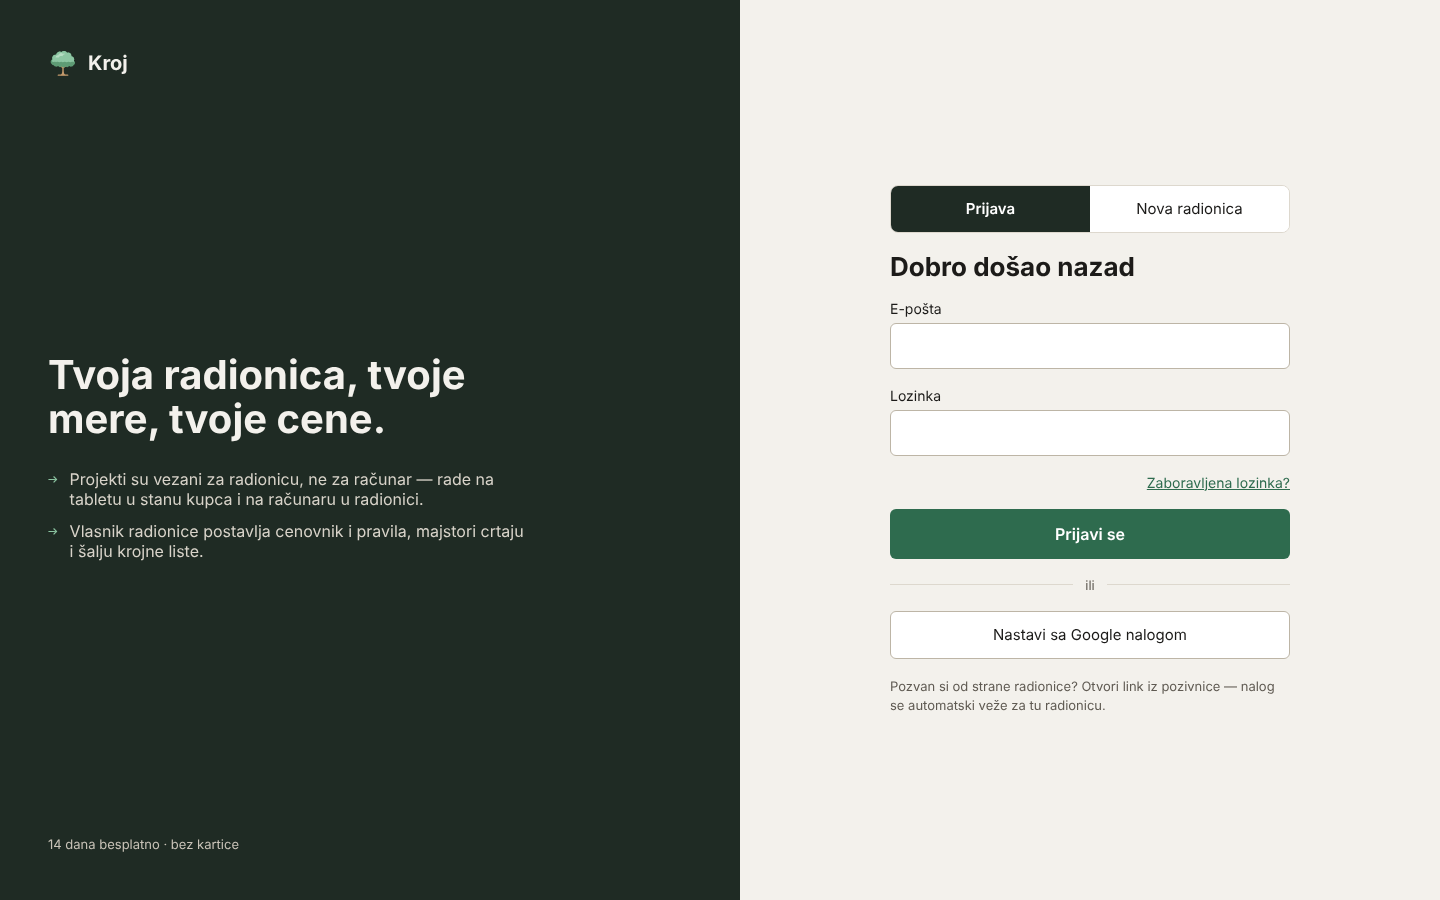
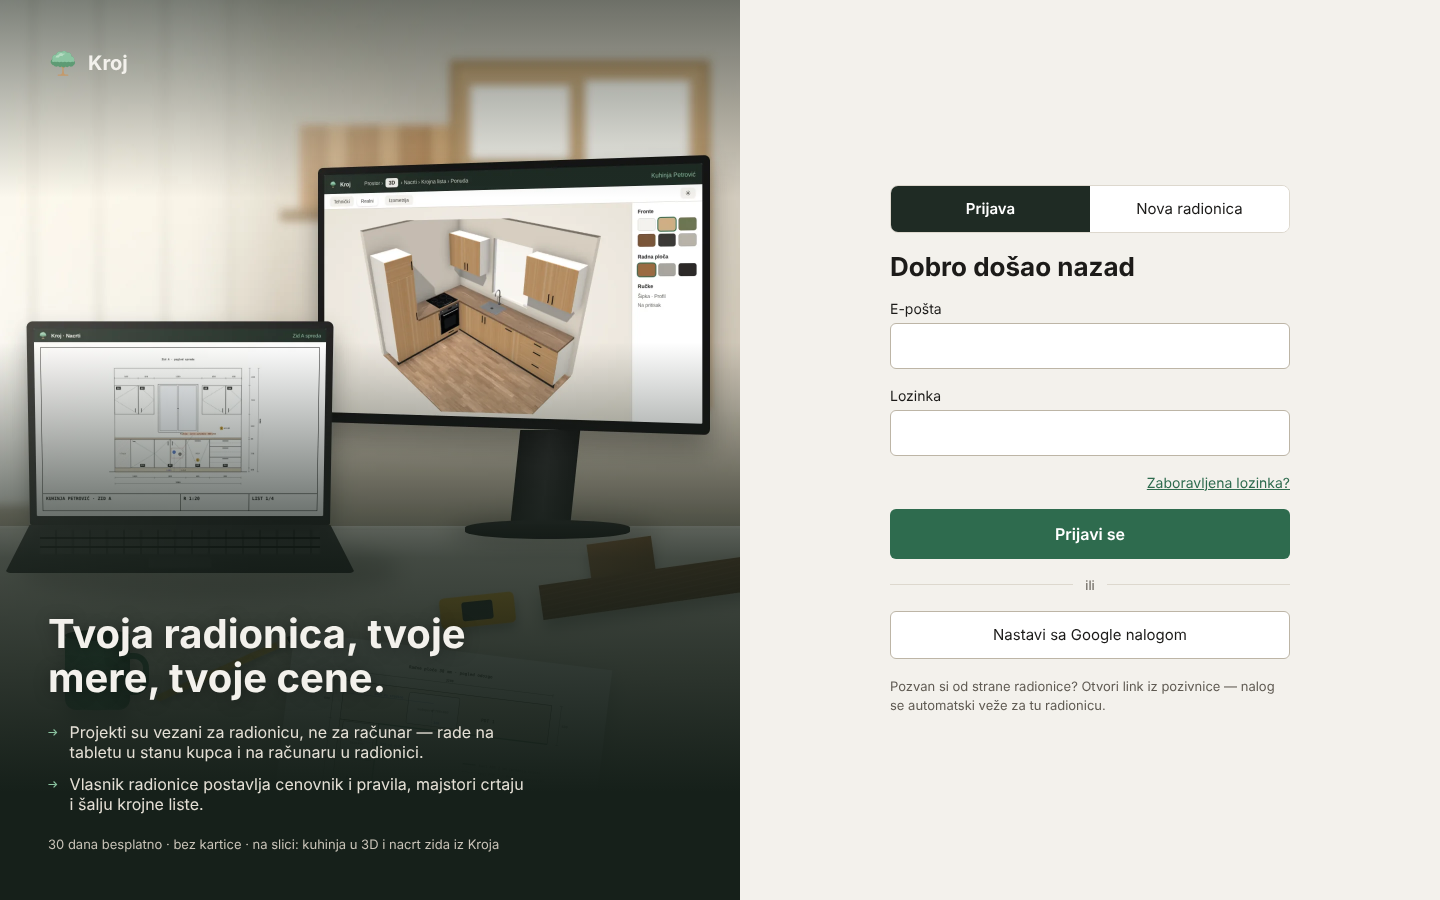
Design: login / sign-up picture — original desk scene with Kroj 3D on the monitor and a wall drawing on the laptop; Prijava left panel uses it
Claude-Session: https://claude.ai/code/session_014Ntj7D9UHc2rmP57rGzQrg

diff --git a/design/assets/site/login-scene.html b/design/assets/site/login-scene.html
@@ -1,0 +1,81 @@
+<!doctype html><html><head><meta charset="utf-8"><style>
+@import url('https://fonts.googleapis.com/css2?family=IBM+Plex+Sans:wght@400;500;600;700&display=swap');
+*{box-sizing:border-box} body{margin:0;width:1480px;height:1800px;overflow:hidden;font-family:'IBM Plex Sans',sans-serif;background:#2a2a26}
+.scene{position:absolute;inset:0;overflow:hidden;background:linear-gradient(180deg,#d9d3c7 0%,#cfc6b6 45%,#b9ab95 62%)}
+/* back wall: window light + shelves + pinned drawings, blurred like depth of field */
+.wall{position:absolute;inset:0 0 38% 0;filter:blur(9px)}
+.win{position:absolute;left:-60px;top:-40px;width:620px;height:1050px;background:linear-gradient(90deg,#fbfaf6,#f1eee6 70%,rgba(241,238,230,0));}
+.win:after{content:'';position:absolute;inset:0;background:repeating-linear-gradient(90deg,rgba(255,255,255,0) 0 120px,rgba(200,194,182,.55) 120px 132px)}
+.board{position:absolute;right:60px;top:120px;width:520px;height:700px;background:#c9a77a;box-shadow:inset 0 0 0 14px #b08c5e}
+.pin{position:absolute;background:#f7f5ef;box-shadow:0 6px 18px rgba(0,0,0,.18)}
+.shelf{position:absolute;left:560px;top:420px;width:380px;height:22px;background:#8a6a45}
+.planks{position:absolute;left:600px;top:250px;width:300px;height:170px;background:repeating-linear-gradient(90deg,#b88a5a 0 46px,#9c7246 46px 52px,#d0a878 52px 96px,#a67a4c 96px 104px)}
+.glow{position:absolute;inset:0;background:radial-gradient(60% 50% at 18% 28%,rgba(255,250,236,.75),rgba(255,250,236,0) 70%)}
+/* desk */
+.desk{position:absolute;left:-120px;right:-120px;top:1060px;bottom:-40px;background:linear-gradient(180deg,#ece7dd 0%,#e2dacb 40%,#cfc4b0 100%);transform-origin:50% 0;}
+.deskedge{position:absolute;left:-120px;right:-120px;top:1052px;height:14px;background:linear-gradient(#f6f2ea,#d8cfbf)}
+.shadow{position:absolute;border-radius:50%;background:rgba(40,32,20,.28);filter:blur(22px)}
+/* monitor */
+.mon{position:absolute;left:520px;top:310px;width:900px;height:560px;transform:perspective(2400px) rotateY(-16deg);transform-origin:100% 50%}
+.bezel{position:absolute;inset:0;background:#141414;border-radius:12px;padding:16px 16px 22px;box-shadow:0 30px 60px rgba(0,0,0,.35)}
+.screen{position:relative;width:100%;height:100%;background:#F3F1EC;overflow:hidden;border-radius:3px}
+.hdr{height:42px;background:#1F2B24;display:flex;align-items:center;gap:10px;padding:0 14px;color:#F3F1EC;font-size:13px;font-weight:600}
+.st{display:flex;align-items:center;gap:6px;margin-left:24px;font-size:12px;font-weight:500;color:#D8D3C9}
+.st b{background:#F3F1EC;color:#1C1B19;border-radius:5px;padding:3px 8px;font-weight:600}
+.tb{height:34px;display:flex;align-items:center;gap:8px;padding:0 14px;border-bottom:1px solid #DDD8CE;background:#FFFFFF}
+.pill{height:22px;border-radius:6px;background:#F3F1EC;padding:0 10px;font-size:11px;display:flex;align-items:center;color:#3D3A35}
+.pill.on{background:#FFFFFF;box-shadow:0 1px 3px rgba(0,0,0,.15)}
+.view{position:absolute;left:0;right:150px;top:76px;bottom:0;background:radial-gradient(80% 80% at 50% 45%,#f7f4ee,#e6e0d4)}
+.view img{position:absolute;inset:6% 4% 2% 4%;width:92%;height:92%;object-fit:contain}
+.side{position:absolute;right:0;top:76px;bottom:0;width:150px;background:#FFFFFF;border-left:1px solid #DDD8CE;padding:12px;font-size:10.5px;color:#5F5A52}
+.sw{display:grid;grid-template-columns:repeat(3,1fr);gap:6px;margin:8px 0 14px}
+.sw i{height:26px;border-radius:5px;display:block;box-shadow:inset 0 0 0 1px rgba(0,0,0,.12)}
+.stand{position:absolute;left:1030px;top:860px;width:120px;height:200px;background:linear-gradient(90deg,#1b1b1b,#2e2e2e 50%,#1b1b1b);transform:skewX(-6deg)}
+.foot{position:absolute;left:930px;top:1040px;width:330px;height:38px;border-radius:50%/40%;background:linear-gradient(#2a2a2a,#151515)}
+/* laptop */
+.lap{position:absolute;left:60px;top:650px;width:600px;height:400px;transform:perspective(1800px) rotateX(-6deg);transform-origin:50% 100%}
+.lid{position:absolute;inset:0;background:#202020;border-radius:12px 12px 4px 4px;padding:14px 14px 18px;box-shadow:0 26px 50px rgba(0,0,0,.35)}
+.lscr{width:100%;height:100%;background:#FFFFFF;overflow:hidden;position:relative;border-radius:2px}
+.lhdr{height:26px;background:#1F2B24;display:flex;align-items:center;gap:8px;padding:0 10px;color:#F3F1EC;font-size:10px;font-weight:600}
+.lscr .sheet{position:absolute;left:12px;right:12px;top:36px;bottom:10px;border:1.5px solid #1C1B19;display:flex;flex-direction:column}
+.lscr .sheet img{flex:1;min-height:0;width:100%;object-fit:contain;padding:8px}
+.tblock{height:34px;border-top:1.5px solid #1C1B19;display:grid;grid-template-columns:2fr 1fr 1fr;font:600 9px 'IBM Plex Mono',monospace}
+.tblock div{border-left:1px solid #1C1B19;padding:4px 6px} .tblock div:first-child{border-left:0}
+.base{position:absolute;left:10px;top:1050px;width:700px;height:96px;background:linear-gradient(180deg,#3a3a3a,#1c1c1c);clip-path:polygon(7% 0,93% 0,100% 100%,0 100%);border-radius:0 0 10px 10px}
+.base:after{content:'';position:absolute;left:41%;bottom:10px;width:18%;height:22px;border-radius:4px;background:#2a2a2a}
+.keys{position:absolute;inset:10px 70px 38px 70px;background:repeating-linear-gradient(90deg,#3a3a3a 0 30px,#232323 30px 34px),repeating-linear-gradient(180deg,rgba(0,0,0,0) 0 14px,#1a1a1a 14px 18px);background-blend-mode:multiply;opacity:.9}
+/* props */
+.wood1{position:absolute;left:1080px;top:1140px;width:440px;height:70px;background:linear-gradient(180deg,#7b4f2e,#5e3a20);transform:rotate(-8deg);box-shadow:0 18px 30px rgba(0,0,0,.3)}
+.wood1:before{content:'';position:absolute;inset:0;background:repeating-linear-gradient(176deg,rgba(255,255,255,0) 0 9px,rgba(255,255,255,.06) 9px 11px)}
+.wood2{position:absolute;left:1180px;top:1080px;width:130px;height:110px;background:linear-gradient(135deg,#9a6a3e,#6f4826);transform:rotate(-8deg);box-shadow:0 14px 24px rgba(0,0,0,.3)}
+.meter{position:absolute;left:880px;top:1190px;width:150px;height:62px;border-radius:10px;background:linear-gradient(#f2b630,#d9981a);transform:rotate(-6deg);box-shadow:0 12px 22px rgba(0,0,0,.3)}
+.meter:after{content:'';position:absolute;left:44px;top:12px;width:62px;height:38px;border-radius:5px;background:#1f2321}
+.paper{position:absolute;left:560px;top:1300px;width:640px;height:440px;background:#fbfaf6;transform:rotate(7deg);box-shadow:0 18px 40px rgba(0,0,0,.22);padding:26px;overflow:hidden}
+.paper img{width:100%;opacity:.9}
+.pencil{position:absolute;left:300px;top:1330px;width:300px;height:14px;border-radius:7px;background:linear-gradient(90deg,#f2c14e 0 88%,#e8c9a0 88% 96%,#333 96%);transform:rotate(-24deg);box-shadow:0 8px 12px rgba(0,0,0,.25)}
+.mug{position:absolute;left:130px;top:1270px;width:130px;height:150px;border-radius:10px 10px 22px 22px;background:linear-gradient(90deg,#2E6B4E,#3d8562 55%,#25573f);box-shadow:0 22px 30px rgba(0,0,0,.3)}
+.mug:before{content:'';position:absolute;left:0;right:0;top:-10px;height:22px;border-radius:50%;background:#1D4632}
+.mug:after{content:'';position:absolute;right:-38px;top:36px;width:50px;height:60px;border:12px solid #2E6B4E;border-left:0;border-radius:0 30px 30px 0}
+.light{position:absolute;inset:0;pointer-events:none;background:linear-gradient(115deg,rgba(255,248,230,.28),rgba(255,248,230,0) 45%),radial-gradient(120% 90% at 50% 120%,rgba(0,0,0,.25),rgba(0,0,0,0) 60%)}
+</style></head><body><div class="scene">
+<div class="wall"><div class="win"></div><div class="board"><div class="pin" style="left:40px;top:50px;width:200px;height:150px"></div><div class="pin" style="left:270px;top:40px;width:210px;height:280px"></div><div class="pin" style="left:60px;top:240px;width:170px;height:230px"></div></div><div class="planks"></div><div class="shelf"></div><div class="glow"></div></div>
+<div class="deskedge"></div><div class="desk"></div>
+<div class="shadow" style="left:900px;top:1030px;width:420px;height:70px"></div>
+<div class="shadow" style="left:40px;top:1080px;width:760px;height:120px"></div>
+<div class="stand"></div><div class="foot"></div>
+<div class="mon"><div class="bezel"><div class="screen">
+  <div class="hdr"><svg width="16" height="16" viewBox="0 0 28 28" aria-hidden="true"><path d="M11.2 25.4c1.3-.5 2-1.8 2.1-3.8l.1-4.3h1.2l.1 4.3c.1 2 .8 3.3 2.1 3.8z" fill="#C49A6C"></path><path d="M13.9 18.4 10.6 16M14 18v-2.4M14.4 18.3l3.4-2.5" fill="none" stroke="#C49A6C" stroke-width="1.1" stroke-linecap="round"></path><path d="M9.6 25.4h8.8" stroke="#C49A6C" stroke-width="1.2" stroke-linecap="round"></path><path d="M3.6 15.2a2.6 2.6 0 0 1 .6-4.6a3 3 0 0 1 3.4-4.2a3.4 3.4 0 0 1 5-2.6a3.4 3.4 0 0 1 5.2.6a3 3 0 0 1 4 3.4a2.8 2.8 0 0 1 2.4 4a2.4 2.4 0 0 1-.4 4.2a2.6 2.6 0 0 1-4 .8a2.4 2.4 0 0 1-3.4.4a2.4 2.4 0 0 1-3.6 0a2.4 2.4 0 0 1-3.4-.4a2.6 2.6 0 0 1-4-.8a1.8 1.8 0 0 1-1.8-.8z" fill="#5E9B74"></path><path d="M3.9 12.9a2.6 2.6 0 0 1 .3-2.3a3 3 0 0 1 3.4-4.2a3.4 3.4 0 0 1 5-2.6a3.4 3.4 0 0 1 5.2.6a3 3 0 0 1 4 3.4a2.8 2.8 0 0 1 2.4 4a2.2 2.2 0 0 1-.3 1.4c-1-.7-2.3-.6-3.1.2c-.9-.8-2.4-.8-3.3 0c-1-.9-2.6-.9-3.6 0c-.9-.8-2.4-.8-3.3 0c-.8-.8-2.1-.9-3.1-.2c-.8-.4-1.4-.4-1.9-.2z" fill="#8CC5A2"></path><path d="M7.2 9.2a2.2 2.2 0 0 1 2.4-2.4a2.6 2.6 0 0 1 4.2-1.4a2.4 2.4 0 0 1 2.6.2c-1.6.2-2.6 1-3 2.2c-1.4-.6-3 0-3.6 1.4c-1-.4-2-.4-2.6 0z" fill="#B5DCC2"></path></svg><span>Kroj</span><span class="st">Prostor ›<b>3D</b>› Nacrti › Krojna lista › Ponuda</span><span style="margin-left:auto;font-weight:500;color:#8CC5A2">Kuhinja Petrović</span></div>
+  <div class="tb"><span class="pill">Tehnički</span><span class="pill on">Realni</span><span class="pill" style="margin-left:10px">Izometrija</span><span style="margin-left:auto" class="pill">☀</span></div>
+  <div class="view"><img src="../web/3d-hero.webp"></div>
+  <div class="side"><b style="color:#1C1B19;font-size:11px">Fronte</b><div class="sw"><i style="background:#F4F2EE"></i><i style="background:#CFAE84;box-shadow:0 0 0 2px #2E6B4E"></i><i style="background:#6E7552"></i><i style="background:#7A5638"></i><i style="background:#3A3936"></i><i style="background:#B8B3AA"></i></div><b style="color:#1C1B19;font-size:11px">Radna ploča</b><div class="sw"><i style="background:#9A6B43;box-shadow:0 0 0 2px #2E6B4E"></i><i style="background:#A9A59E"></i><i style="background:#2B2A28"></i></div><b style="color:#1C1B19;font-size:11px">Ručke</b><div style="margin-top:6px;line-height:1.7">Šipka · Profil<br>Na pritisak</div></div>
+</div></div></div>
+<div class="base"><div class="keys"></div></div>
+<div class="lap"><div class="lid"><div class="lscr">
+  <div class="lhdr"><svg width="16" height="16" viewBox="0 0 28 28" aria-hidden="true"><path d="M11.2 25.4c1.3-.5 2-1.8 2.1-3.8l.1-4.3h1.2l.1 4.3c.1 2 .8 3.3 2.1 3.8z" fill="#C49A6C"></path><path d="M13.9 18.4 10.6 16M14 18v-2.4M14.4 18.3l3.4-2.5" fill="none" stroke="#C49A6C" stroke-width="1.1" stroke-linecap="round"></path><path d="M9.6 25.4h8.8" stroke="#C49A6C" stroke-width="1.2" stroke-linecap="round"></path><path d="M3.6 15.2a2.6 2.6 0 0 1 .6-4.6a3 3 0 0 1 3.4-4.2a3.4 3.4 0 0 1 5-2.6a3.4 3.4 0 0 1 5.2.6a3 3 0 0 1 4 3.4a2.8 2.8 0 0 1 2.4 4a2.4 2.4 0 0 1-.4 4.2a2.6 2.6 0 0 1-4 .8a2.4 2.4 0 0 1-3.4.4a2.4 2.4 0 0 1-3.6 0a2.4 2.4 0 0 1-3.4-.4a2.6 2.6 0 0 1-4-.8a1.8 1.8 0 0 1-1.8-.8z" fill="#5E9B74"></path><path d="M3.9 12.9a2.6 2.6 0 0 1 .3-2.3a3 3 0 0 1 3.4-4.2a3.4 3.4 0 0 1 5-2.6a3.4 3.4 0 0 1 5.2.6a3 3 0 0 1 4 3.4a2.8 2.8 0 0 1 2.4 4a2.2 2.2 0 0 1-.3 1.4c-1-.7-2.3-.6-3.1.2c-.9-.8-2.4-.8-3.3 0c-1-.9-2.6-.9-3.6 0c-.9-.8-2.4-.8-3.3 0c-.8-.8-2.1-.9-3.1-.2c-.8-.4-1.4-.4-1.9-.2z" fill="#8CC5A2"></path><path d="M7.2 9.2a2.2 2.2 0 0 1 2.4-2.4a2.6 2.6 0 0 1 4.2-1.4a2.4 2.4 0 0 1 2.6.2c-1.6.2-2.6 1-3 2.2c-1.4-.6-3 0-3.6 1.4c-1-.4-2-.4-2.6 0z" fill="#B5DCC2"></path></svg><span>Kroj · Nacrti</span><span style="margin-left:auto;font-weight:500;color:#8CC5A2">Zid A spreda</span></div>
+  <div class="sheet"><img src="../nacrt-zid-A.svg"><div class="tblock"><div>KUHINJA PETROVIĆ · ZID A</div><div>R 1:20</div><div>LIST 1/4</div></div></div>
+</div></div></div>
+<div class="wood2"></div><div class="wood1"></div><div class="meter"></div>
+<div class="paper"><img src="../nacrt-radne-ploce.svg"></div>
+<div class="pencil"></div><div class="mug"></div>
+<div class="light"></div>
+</div></body></html>

diff --git a/design/Prijava.dc.html b/design/Prijava.dc.html
@@ -16,17 +16,19 @@ a{color:#2E6B4E}a:hover{color:#1D4632}
 </style>
 </helmet>
 <div style="font-family: 'IBM Plex Sans', system-ui, sans-serif; color: #1C1B19; background: #F3F1EC; min-height: 900px; display: flex; flex-wrap: wrap">
-  <section style="flex: 1 1 520px; min-width: 0; background: #1F2B24; color: #F3F1EC; padding: 48px; box-sizing: border-box; display: flex; flex-direction: column; gap: 28px">
-    <a href="Sajt.dc.html" style="display: flex; align-items: center; gap: 10px; color: #F3F1EC; text-decoration: none">
+  <section style="flex: 1 1 520px; min-width: 0; position: relative; overflow: hidden; background: #1F2B24; color: #F3F1EC; padding: 48px; box-sizing: border-box; display: flex; flex-direction: column; gap: 22px">
+    <img src="assets/site/web/login-radionica.webp" alt="" style="position: absolute; inset: 0; width: 100%; height: 100%; object-fit: cover; object-position: 50% 30%">
+    <span aria-hidden="true" style="position: absolute; inset: 0; background: linear-gradient(180deg, rgba(20,30,24,0.55) 0%, rgba(20,30,24,0) 22%, rgba(20,30,24,0) 38%, rgba(20,30,24,0.78) 62%, #16201A 88%)"></span>
+    <a href="Pocetna.dc.html" style="position: relative; display: flex; align-items: center; gap: 10px; color: #F3F1EC; text-decoration: none">
       <svg width="30" height="30" viewBox="0 0 28 28" aria-hidden="true"><path d="M11.2 25.4c1.3-.5 2-1.8 2.1-3.8l.1-4.3h1.2l.1 4.3c.1 2 .8 3.3 2.1 3.8z" fill="#C49A6C"></path><path d="M13.9 18.4 10.6 16M14 18v-2.4M14.4 18.3l3.4-2.5" fill="none" stroke="#C49A6C" stroke-width="1.1" stroke-linecap="round"></path><path d="M9.6 25.4h8.8" stroke="#C49A6C" stroke-width="1.2" stroke-linecap="round"></path><path d="M3.6 15.2a2.6 2.6 0 0 1 .6-4.6a3 3 0 0 1 3.4-4.2a3.4 3.4 0 0 1 5-2.6a3.4 3.4 0 0 1 5.2.6a3 3 0 0 1 4 3.4a2.8 2.8 0 0 1 2.4 4a2.4 2.4 0 0 1-.4 4.2a2.6 2.6 0 0 1-4 .8a2.4 2.4 0 0 1-3.4.4a2.4 2.4 0 0 1-3.6 0a2.4 2.4 0 0 1-3.4-.4a2.6 2.6 0 0 1-4-.8a1.8 1.8 0 0 1-1.8-.8z" fill="#5E9B74"></path><path d="M3.9 12.9a2.6 2.6 0 0 1 .3-2.3a3 3 0 0 1 3.4-4.2a3.4 3.4 0 0 1 5-2.6a3.4 3.4 0 0 1 5.2.6a3 3 0 0 1 4 3.4a2.8 2.8 0 0 1 2.4 4a2.2 2.2 0 0 1-.3 1.4c-1-.7-2.3-.6-3.1.2c-.9-.8-2.4-.8-3.3 0c-1-.9-2.6-.9-3.6 0c-.9-.8-2.4-.8-3.3 0c-.8-.8-2.1-.9-3.1-.2c-.8-.4-1.4-.4-1.9-.2z" fill="#8CC5A2"></path><path d="M7.2 9.2a2.2 2.2 0 0 1 2.4-2.4a2.6 2.6 0 0 1 4.2-1.4a2.4 2.4 0 0 1 2.6.2c-1.6.2-2.6 1-3 2.2c-1.4-.6-3 0-3.6 1.4c-1-.4-2-.4-2.6 0z" fill="#B5DCC2"></path></svg>
       <span style="font-weight: 700; font-size: 20px">Kroj</span>
     </a>
-    <h1 style="margin: auto 0 0; font-size: 40px; line-height: 1.1; max-width: 520px">Tvoja radionica, tvoje mere, tvoje cene.</h1>
-    <div style="display: flex; flex-direction: column; gap: 12px; font-size: 16px; color: #D8D3C9; max-width: 480px">
+    <h1 style="position: relative; margin: auto 0 0; font-size: 40px; line-height: 1.1; max-width: 520px; text-shadow: 0 2px 16px rgba(0,0,0,0.35)">Tvoja radionica, tvoje mere, tvoje cene.</h1>
+    <div style="position: relative; display: flex; flex-direction: column; gap: 12px; font-size: 16px; color: #E4DFD5; max-width: 480px">
       <div style="display: flex; gap: 12px"><span style="font-family: 'IBM Plex Mono', monospace; color: #8CC5A2">→</span><span>Projekti su vezani za radionicu, ne za računar — rade na tabletu u stanu kupca i na računaru u radionici.</span></div>
       <div style="display: flex; gap: 12px"><span style="font-family: 'IBM Plex Mono', monospace; color: #8CC5A2">→</span><span>Vlasnik radionice postavlja cenovnik i pravila, majstori crtaju i šalju krojne liste.</span></div>
     </div>
-    <div style="margin-top: auto; font-size: 13px; color: #C9C3B8">14 dana besplatno · bez kartice</div>
+    <div style="position: relative; font-size: 13px; color: #C9C3B8">30 dana besplatno · bez kartice · na slici: kuhinja u 3D i nacrt zida iz Kroja</div>
   </section>
 
   <main style="flex: 1 1 480px; min-width: 0; padding: 48px; box-sizing: border-box; display: flex; align-items: center; justify-content: center">

diff --git a/design/screens/Prijava.html b/design/screens/Prijava.html
@@ -17,17 +17,19 @@ a{color:#2E6B4E}a:hover{color:#1D4632}
 </style>
 </helmet>
 <div style="font-family: 'IBM Plex Sans', system-ui, sans-serif; color: #1C1B19; background: #F3F1EC; min-height: 900px; display: flex; flex-wrap: wrap">
-  <section style="flex: 1 1 520px; min-width: 0; background: #1F2B24; color: #F3F1EC; padding: 48px; box-sizing: border-box; display: flex; flex-direction: column; gap: 28px">
-    <a href="Sajt.html" style="display: flex; align-items: center; gap: 10px; color: #F3F1EC; text-decoration: none">
+  <section style="flex: 1 1 520px; min-width: 0; position: relative; overflow: hidden; background: #1F2B24; color: #F3F1EC; padding: 48px; box-sizing: border-box; display: flex; flex-direction: column; gap: 22px">
+    <img src="assets/site/web/login-radionica.webp" alt="" style="position: absolute; inset: 0; width: 100%; height: 100%; object-fit: cover; object-position: 50% 30%">
+    <span aria-hidden="true" style="position: absolute; inset: 0; background: linear-gradient(180deg, rgba(20,30,24,0.55) 0%, rgba(20,30,24,0) 22%, rgba(20,30,24,0) 38%, rgba(20,30,24,0.78) 62%, #16201A 88%)"></span>
+    <a href="Pocetna.html" style="position: relative; display: flex; align-items: center; gap: 10px; color: #F3F1EC; text-decoration: none">
       <svg width="30" height="30" viewBox="0 0 28 28" aria-hidden="true"><path d="M11.2 25.4c1.3-.5 2-1.8 2.1-3.8l.1-4.3h1.2l.1 4.3c.1 2 .8 3.3 2.1 3.8z" fill="#C49A6C"></path><path d="M13.9 18.4 10.6 16M14 18v-2.4M14.4 18.3l3.4-2.5" fill="none" stroke="#C49A6C" stroke-width="1.1" stroke-linecap="round"></path><path d="M9.6 25.4h8.8" stroke="#C49A6C" stroke-width="1.2" stroke-linecap="round"></path><path d="M3.6 15.2a2.6 2.6 0 0 1 .6-4.6a3 3 0 0 1 3.4-4.2a3.4 3.4 0 0 1 5-2.6a3.4 3.4 0 0 1 5.2.6a3 3 0 0 1 4 3.4a2.8 2.8 0 0 1 2.4 4a2.4 2.4 0 0 1-.4 4.2a2.6 2.6 0 0 1-4 .8a2.4 2.4 0 0 1-3.4.4a2.4 2.4 0 0 1-3.6 0a2.4 2.4 0 0 1-3.4-.4a2.6 2.6 0 0 1-4-.8a1.8 1.8 0 0 1-1.8-.8z" fill="#5E9B74"></path><path d="M3.9 12.9a2.6 2.6 0 0 1 .3-2.3a3 3 0 0 1 3.4-4.2a3.4 3.4 0 0 1 5-2.6a3.4 3.4 0 0 1 5.2.6a3 3 0 0 1 4 3.4a2.8 2.8 0 0 1 2.4 4a2.2 2.2 0 0 1-.3 1.4c-1-.7-2.3-.6-3.1.2c-.9-.8-2.4-.8-3.3 0c-1-.9-2.6-.9-3.6 0c-.9-.8-2.4-.8-3.3 0c-.8-.8-2.1-.9-3.1-.2c-.8-.4-1.4-.4-1.9-.2z" fill="#8CC5A2"></path><path d="M7.2 9.2a2.2 2.2 0 0 1 2.4-2.4a2.6 2.6 0 0 1 4.2-1.4a2.4 2.4 0 0 1 2.6.2c-1.6.2-2.6 1-3 2.2c-1.4-.6-3 0-3.6 1.4c-1-.4-2-.4-2.6 0z" fill="#B5DCC2"></path></svg>
       <span style="font-weight: 700; font-size: 20px">Kroj</span>
     </a>
-    <h1 style="margin: auto 0 0; font-size: 40px; line-height: 1.1; max-width: 520px">Tvoja radionica, tvoje mere, tvoje cene.</h1>
-    <div style="display: flex; flex-direction: column; gap: 12px; font-size: 16px; color: #D8D3C9; max-width: 480px">
+    <h1 style="position: relative; margin: auto 0 0; font-size: 40px; line-height: 1.1; max-width: 520px; text-shadow: 0 2px 16px rgba(0,0,0,0.35)">Tvoja radionica, tvoje mere, tvoje cene.</h1>
+    <div style="position: relative; display: flex; flex-direction: column; gap: 12px; font-size: 16px; color: #E4DFD5; max-width: 480px">
       <div style="display: flex; gap: 12px"><span style="font-family: 'IBM Plex Mono', monospace; color: #8CC5A2">→</span><span>Projekti su vezani za radionicu, ne za računar — rade na tabletu u stanu kupca i na računaru u radionici.</span></div>
       <div style="display: flex; gap: 12px"><span style="font-family: 'IBM Plex Mono', monospace; color: #8CC5A2">→</span><span>Vlasnik radionice postavlja cenovnik i pravila, majstori crtaju i šalju krojne liste.</span></div>
     </div>
-    <div style="margin-top: auto; font-size: 13px; color: #C9C3B8">14 dana besplatno · bez kartice</div>
+    <div style="position: relative; font-size: 13px; color: #C9C3B8">30 dana besplatno · bez kartice · na slici: kuhinja u 3D i nacrt zida iz Kroja</div>
   </section>
 
   <main style="flex: 1 1 480px; min-width: 0; padding: 48px; box-sizing: border-box; display: flex; align-items: center; justify-content: center">

diff --git a/docs/PROGRESS.md b/docs/PROGRESS.md
@@ -247,6 +247,7 @@ To resume: `git pull`, then tell Claude "nastavi gde smo stali".
 - Verified by typecheck, `vite build` and a server-side render (L example: 7 lower, 4 upper, 1 tall, worktop 3200 + 1200, 84 parts). Not yet checked visually in a browser (Chrome extension did not respond).
 
 ## Next step
+- **2026-11-26 13:20, design: login / registration picture (user sent a vendor photo of a man at a desk with CAD on the screens: "napravi sliku poput ove, samo na monitorima naša aplikacija — 3D kuhinje, na laptopu tehnički nacrt").** We did not reuse that photo (someone else's marketing image, another product on the screen). Instead: an original desk scene (workshop wall in soft focus, monitor with Kroj 3D Realni of the site kitchen, laptop with Nacrti Zid A on the A3 sheet, worktop drawing on paper, wood, laser meter, green mug) built from the real app output: `design/assets/site/login-scene.html` (source, 1480 × 1800) → `login-radionica.png` / `web/login-radionica.webp`. Reference `Prijava`: the left panel is that picture (cover, top 30 %) with a dark green gradient, text at the bottom; footnote "30 dana besplatno · bez kartice" (was 14). **Claude Code:** use it on `/prijava` for both tabs (Prijava / Nova radionica) and on the customer sign-up if it has a picture panel. If the user later buys a licensed stock photo with blank screens, design can map the app screenshots onto it.
 - **2026-11-26 11:15, design: obstacle + installation icons in the Prostor library (Prepreke tab) — `OBSICON` in reference `Main`, spec in `design/BRIEF_LIBRARY_ICONS.md` addendum. NEXT FOR CLAUDE CODE together with `UnitIcon`: port as `ObstacleIcon`.**
 - **2026-11-26 10:55, design answered `design/BRIEF_LIBRARY_ICONS.md`: option 1 (drawn 3/4 icons) — reference `Main` updated, spec appended to the brief. NEXT FOR CLAUDE CODE: port `unitIcon` as `UnitIcon` (library cards + big panel), keep the HoverCard 3D.**
 - **2026-11-25 13:05, NEW LOGO: an oak (user sent an oak illustration: "zameni logo, napravi ga pozivajući se na tu sliku").** Simplified flat oak drawn for small sizes (28 × 28 grid): wide lobed crown in two greens (lighter top, darker underside, one highlight), short tapered trunk with three branches into the crown, ground line. Files in `design/brand/`: `kroj-mark.svg` (light pages: #2E6B4E / #1D4632 / #4F8B67, trunk #6B4A33), `kroj-mark-on-dark.svg` (dark header: #8CC5A2 / #5E9B74 / #B5DCC2, trunk #C49A6C), `kroj-icon.svg` + `kroj-icon-{512,180,32}.png` (app icon / apple-touch / favicon: light oak on #1F2B24 rounded tile), `favicon.svg`. All 42 reference screens + the canvas now use it (the old square "kroj" mark is gone). **Claude Code:** replace the mark in `apps/web/src/brand.tsx` (one `<Logo variant="light|dark" size>` component; the SVG paths are in `design/brand/kroj-mark*.svg`), set `index.html` favicon (`favicon.svg` + `kroj-icon-32.png` fallback) and `apple-touch-icon` (`kroj-icon-180.png`), PWA manifest icon 512 if there is one; update the visual baselines that include the header.
